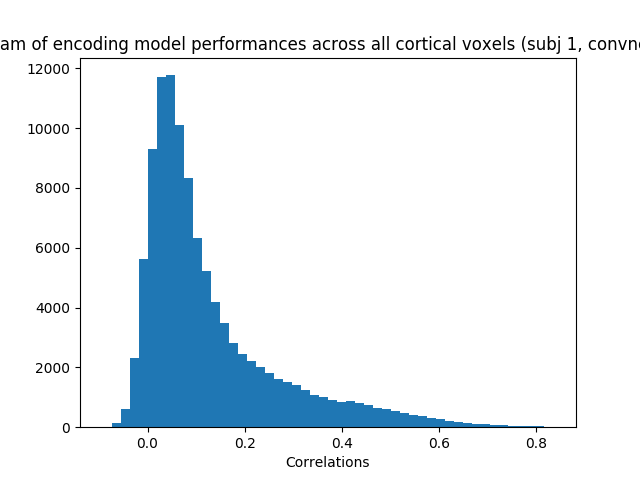
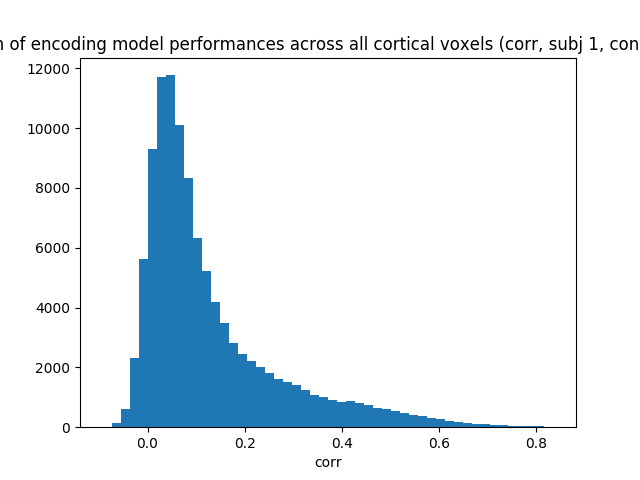
update

Changed region(s): [[0.0, 0.0625, 1.0, 0.125], [0.4375, 0.9375, 0.5938, 1.0]]

diff --git a/code/plot_corr_results.py b/code/plot_corr_results.py
@@ -6,9 +6,9 @@ from tqdm import tqdm
 
 from util.model_config import taskrepr_features, convnet_structures
 
-def read_and_plot_performances(model, feature, subj, type="corr"):
+def read_and_plot_performances(model, feature, subj, type="corr", model_note=""):
     perf = pickle.load(
-        open("output/encoding_results/subj%d/%s_%s_%s_whole_brain.p" % (subj, type, model, feature), "rb"))
+        open("output/encoding_results/subj%d/%s_%s_%s_whole_brain%s.p" % (subj, type, model, feature, model_note), "rb"))
     try:
         out = [item[0] for item in perf]
     except IndexError:
@@ -17,26 +17,59 @@ def read_and_plot_performances(model, feature, subj, type="corr"):
     plt.figure()
     plt.hist(out, bins=50)
     plt.xlabel(type)
-    plt.title("Histogram of encoding model performances across all cortical voxels (%s, subj %s, %s_%s)" % (type, subj, model, feature))
-    plt.savefig("figures/encoding_results/subj%d/%s_%s_%s_whole_brain.png" % (subj, type, model, feature))
+    plt.title("Histogram of encoding model performances across all cortical voxels (%s, subj %s, %s_%s%s)" % (type, subj, model, feature, model_note))
+    plt.savefig("figures/encoding_results/subj%d/%s_%s_%s_whole_brain%s.png" % (subj, type, model, feature, model_note))
+
+def read_and_plot_compared_performances(model, feature, subj, type="corr", model_note=""):
+    perf = pickle.load(
+        open("output/encoding_results/subj%d/%s_%s_%s_whole_brain.p" % (subj, type, model, feature), "rb"))
+    try:
+        out = [item[0] for item in perf]
+    except IndexError:
+        out = perf
+    print(max(out))
+    plt.figure()
+    plt.hist(out, bins=50, label=10000, alpha=0.5)
+
+    perf = pickle.load(
+        open("output/encoding_results/subj%d/%s_%s_%s_whole_brain%s.p" % (subj, type, model, feature, model_note),
+             "rb"))
+    try:
+        out = [item[0] for item in perf]
+    except IndexError:
+        out = perf
+    plt.hist(out, bins=50, label=5000, alpha=0.5)
+    plt.xlabel(type)
+    plt.legend()
+
+    plt.title("Comparison Histogram across all cortical voxels (%s, subj %s, %s_%s%s)" % (type, subj, model, feature, model_note))
+    plt.savefig("figures/encoding_results/subj%d/Comparison_%s_%s_%s_whole_brain%s.png" % (subj, type, model, feature, model_note))
 
 
 parser = argparse.ArgumentParser()
 parser.add_argument("--subj", type=int, default=1)
 parser.add_argument("--model", type=str, default="taskrepr")
 parser.add_argument("--type", type=str, default="corr")
+parser.add_argument("--model_note", type=str, default="")
+parser.add_argument("--compare", type=bool)
 
 args = parser.parse_args()
 
-if args.model == "taskrepr":
-    for task in tqdm(taskrepr_features):
-        try:
-            read_and_plot_performances(args.model, task, args.subj, args.type)
-        except FileNotFoundError:
-            continue
-elif args.model == "convnet":
-    for structure in convnet_structures:
-        try:
-            read_and_plot_performances(args.model, structure, args.subj, args.type)
-        except FileNotFoundError:
-            continue
+# if args.model == "taskrepr":
+#     for task in tqdm(taskrepr_features):
+#         try:
+#             read_and_plot_performances(args.model, task, args.subj, args.type, args.model_note)
+#         except FileNotFoundError:
+#             continue
+# elif args.model == "convnet":
+#     for structure in convnet_structures:
+#         try:
+#             read_and_plot_performances(args.model, structure, args.subj, args.type, args.model_note)
+#         except FileNotFoundError:
+#             continue
+
+for structure in convnet_structures:
+    try:
+        read_and_plot_compared_performances(args.model, structure, args.subj, args.type, args.model_note)
+    except FileNotFoundError:
+        continue
